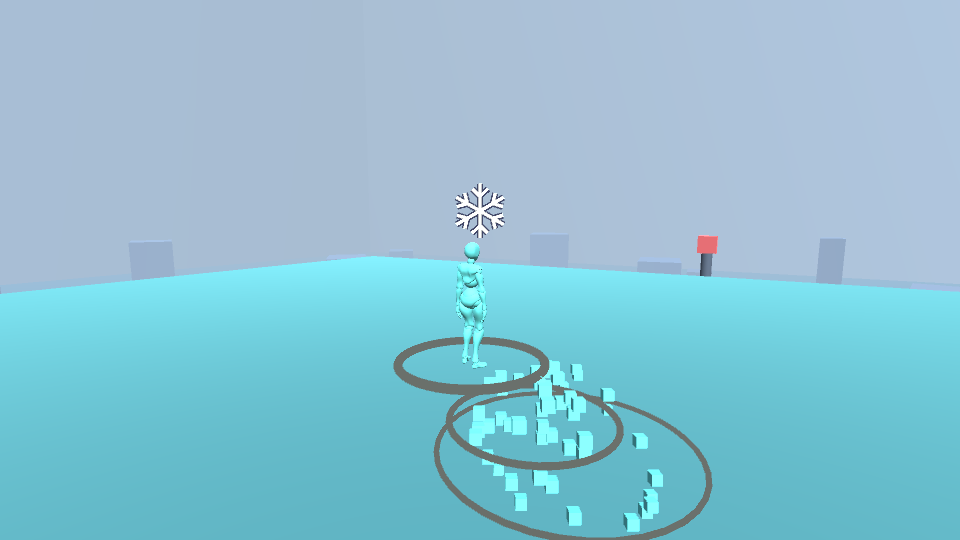
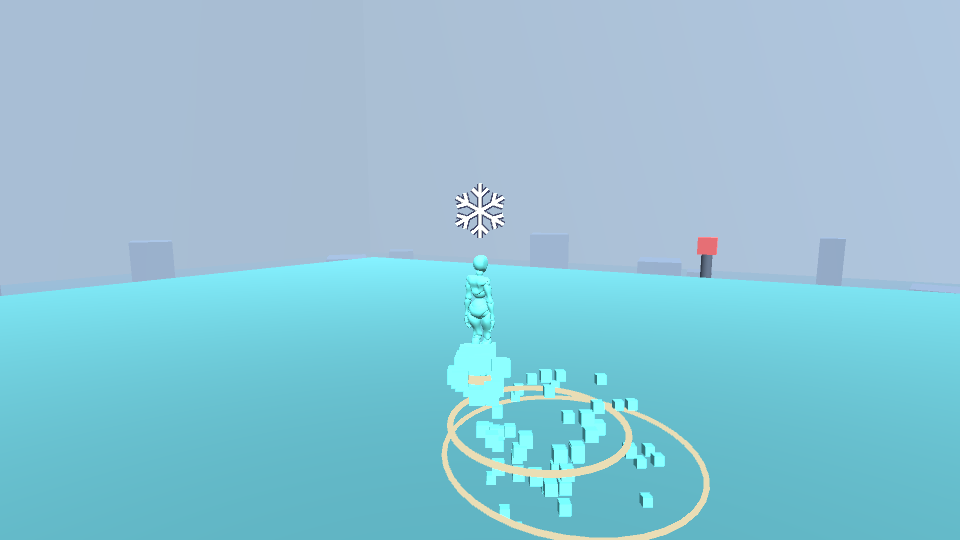
Render synergy shockwave rings unlit in palette colours
The dark-grey rings in the freeze captures were the shared synergy
LineRenderer drawn with the lit Standard palette swatch, not Cartoon FX
(its ring material is additive; diagnose.txt shows 0 darker pixels).

CityMaterials.GetVfx returns one shared Unlit/Color material per palette
swatch: cached, listed in Owned, recoloured by Apply and destroyed with its
owner. SynergyVfx resolves the catalog's ring colours at pool start (4 today)
and never creates a material per cast. If Unlit/Color is unavailable (e.g.
stripped from a player build) the lit swatch is used instead of throwing.

HeroForge verifies all six rings share one cached material, six extra bursts
add no material (120->120), the shader/colour/ownership, and destruction on
session exit. LightingVerification renders the Thermal Shock ring at night:
444 px at luma 0.627 vs 0.179 for the street; cryo-crush/glacier-fist/
sonic-impact captures now show cream rings.

diff --git a/Assets/Scripts/Lighting/LightingVerificationRunner.cs b/Assets/Scripts/Lighting/LightingVerificationRunner.cs
@@ -53,6 +53,39 @@ public sealed class LightingVerificationRunner : MonoBehaviour
         Check(maxStreet<=Lighting.StreetCapacity&&maxPower<=Lighting.PowerCapacity,label+" respects both fixed point-light caps.");
         if(stress)Check(maxPower==Lighting.PowerCapacity&&Lighting.PowerCapacity==4,label+" keeps exactly four pooled power flashes active at the cap.");
     }
+    Texture2D Grab()
+    {
+        camera.Render();var prior=RenderTexture.active;RenderTexture.active=target;
+        var image=new Texture2D(1280,720,TextureFormat.RGB24,false);image.ReadPixels(new Rect(0,0,1280,720),0,0);image.Apply();RenderTexture.active=prior;return image;
+    }
+    static float Luma(Color32 c)=>(.2126f*c.r+.7152f*c.g+.0722f*c.b)/255f;
+    /// Night CONTROL for the synergy shockwave ring: the live pooled ring (unlit palette swatch) against the same ring
+    /// re-rendered with the lit Standard swatch, both against the ring-free frame, all three in one frame.
+    IEnumerator NightSynergyRing()
+    {
+        var runner=W.Powers.SynergyRunner;var d=runner.Definition;
+        Check(d!=null,"Fire + Ice equips a synergy whose shockwave ring can be rendered at night ("+d?.DisplayName+").");
+        var ring=CityMaterials.GetVfx(d.Secondary);var swatch=CityMaterials.Current.Palette.Colors[(int)d.Secondary];
+        runner.Vfx.Burst(W.City.Spawn+new Vector3(0,.05f,6),d);var particles=runner.Vfx.LastParticles;particles.Clear(true);
+        var line=particles.GetComponent<LineRenderer>();
+        yield return new WaitForSeconds(.2f);particles.Clear(true);
+        Check(line.gameObject.activeInHierarchy&&line.sharedMaterial==ring&&ring.shader.name=="Unlit/Color"&&ring.color==swatch&&Lighting.State.Glow>.9f,
+            $"Night: the live {d.DisplayName} ring uses the unlit {d.Secondary} palette swatch, unchanged by the night cycle.");
+        camera.transform.SetPositionAndRotation(cameraAt,cameraRotation);
+        var withRing=Grab();line.enabled=false;var without=Grab();line.enabled=true;
+        line.sharedMaterial=CityMaterials.Get(d.Secondary);var litControl=Grab();line.sharedMaterial=ring;
+        File.WriteAllBytes(Folder+"night-synergy-ring.png",withRing.EncodeToPNG());
+        var a=withRing.GetPixels32();var b=without.GetPixels32();var c=litControl.GetPixels32();int n=0;double unlit=0,lit=0,back=0;
+        static int Diff(Color32 x,Color32 y)=>Mathf.Abs(x.r-y.r)+Mathf.Abs(x.g-y.g)+Mathf.Abs(x.b-y.b);
+        for(int i=0;i<a.Length;i++)if(Diff(a[i],b[i])>12||Diff(c[i],b[i])>12){n++;unlit+=Luma(a[i]);lit+=Luma(c[i]);back+=Luma(b[i]);}
+        Destroy(withRing);Destroy(without);Destroy(litControl);
+        float u=n>0?(float)(unlit/n):0,l=n>0?(float)(lit/n):0,g=n>0?(float)(back/n):0,sw=.2126f*swatch.r+.7152f*swatch.g+.0722f*swatch.b;
+        Log($"MEASURED night synergy ring ({d.Secondary}, swatch luma {sw:F3}): {n} ring pixels; mean luma unlit ring {u:F3}, lit-swatch CONTROL {l:F3}, ground under ring {g:F3}.");
+        Check(n>100&&u-g>=.15f,$"Night: the unlit ring reads against the night street (luma {u:F3} vs ground {g:F3}, {n} pixels).");
+        // Informational only: the lit swatch's darkening depends on view and ribbon normals (grey rings in the daytime freeze
+        // captures), so readability, not the lit/unlit gap, is the gate.
+        Log($"CONTROL night lit-swatch ring luma {l:F3} vs unlit {u:F3} (difference {u-l:+0.000;-0.000}).");
+    }
     IEnumerator Checks()
     {
         yield return Scene(GameFlow.HomeScene);
@@ -68,6 +101,7 @@ public sealed class LightingVerificationRunner : MonoBehaviour
         yield return Measure("night-combat-max-lights",true);yield return Capture("night-max-power-lights-same-view");
         Check(CityMaterials.Current.All.Count()==mats,"Lighting cycle and pooled flashes reuse the same shared city palette materials.");
         var power=W.Powers.Powers.Find(p=>p.Definition==fire);W.Powers.Tick(100,true);Check(W.Powers.Use(power),"Real equipped Fire cast requests a pooled point light.");yield return null;Check(Lighting.PowerActive>0,"Fire leaves a visible short-lived point light while its projectile travels.");
+        yield return NightSynergyRing();
         camera.targetTexture=null;target.Release();Destroy(target);camera.enabled=true;follow.enabled=true;
         yield return Enter("villain");Check(Lighting.TimeOfDay==.5f&&Lighting.State.Glow>.4f,"Villain starts at the authored dusk preset.");
         yield return Enter("free-play");Check(Lighting.Cycle.Advances&&Lighting.Cycle.Loop&&Lighting.Cycle.DurationSeconds>0,"Free Play cycles through day/dusk/night from data.");float t=Lighting.TimeOfDay;yield return new WaitForSeconds(.15f);Check(Lighting.TimeOfDay>t,"Free Play's live cycle advances in game time.");

diff --git a/Assets/Scripts/CityPalette.cs b/Assets/Scripts/CityPalette.cs
@@ -53,6 +53,7 @@ public sealed class CityMaterials : MonoBehaviour
     public static CityMaterials Current {get;private set;}
     public CityPalette Palette {get;private set;}
     readonly Dictionary<CityColor,Material> materials=new Dictionary<CityColor,Material>();
+    readonly Dictionary<CityColor,Material> vfxMaterials=new Dictionary<CityColor,Material>();
     readonly Dictionary<CityColor,Color> applied=new Dictionary<CityColor,Color>();
     float appliedSmoothness=float.NaN; int appliedToonHash, appliedEmissiveHash;
     /// Night glow 0..1 set by the session's WorldLightingDirector (0 = day: every emissive swatch emits black).
@@ -93,7 +94,7 @@ public sealed class CityMaterials : MonoBehaviour
     readonly Dictionary<(SidekickSuit,CityColor,CityColor),SuitEntry> suits=new Dictionary<(SidekickSuit,CityColor,CityColor),SuitEntry>();
     public int SuitCount=>suits.Count;
     /// Palette materials plus the suit materials generated from palette colours (both owned and destroyed here).
-    public IEnumerable<Material> Owned=>materials.Values.Concat(suits.Values.Select(e=>e.Material));
+    public IEnumerable<Material> Owned=>materials.Values.Concat(vfxMaterials.Values).Concat(suits.Values.Select(e=>e.Material));
     public static int SuitsCreated {get;private set;}
     public static Material Suit(SidekickSuit suit,CityColor primary,CityColor secondary)
     {
@@ -120,10 +121,26 @@ public sealed class CityMaterials : MonoBehaviour
         }
         return mat;
     }
+    /// Shared unlit palette material for thin VFX geometry, where Standard's view-facing ribbon normals make colours muddy.
+    /// At most one per swatch, cached, recoloured by Apply and destroyed with this owner. Call during pool setup, not per cast.
+    public static Material GetVfx(CityColor color)
+    {
+        if(Current==null)throw new System.InvalidOperationException("City palette must be initialized before VFX.");
+        if(!Current.vfxMaterials.TryGetValue(color,out var mat))
+        {
+            var shader=Shader.Find("Unlit/Color");
+            // A player build can strip an unreferenced built-in shader: fall back to the lit shared swatch rather than fail the session.
+            if(shader==null||!shader.isSupported){Debug.LogWarning("Unlit/Color unavailable; VFX swatch "+color+" uses the lit palette material.");return Get(color);}
+            mat=new Material(shader){name="Palette/Vfx/"+color,enableInstancing=true,color=Current.Palette.Colors[(int)color]};
+            Current.vfxMaterials.Add(color,mat);
+        }
+        return mat;
+    }
     public void Apply()
     {
         foreach(var pair in materials)
         {var color=Palette.Colors[(int)pair.Key];Surface(pair.Value,color,null,false);Emission(pair.Value,pair.Key);applied[pair.Key]=color;}
+        foreach(var pair in vfxMaterials)pair.Value.color=Palette.Colors[(int)pair.Key];
         appliedSmoothness=Palette.Smoothness; appliedToonHash=ToonHash; appliedEmissiveHash=EmissiveHash;
         foreach(var pair in suits)
         {
@@ -157,6 +174,7 @@ public sealed class CityMaterials : MonoBehaviour
     {
         if(!appliedSmoothness.Equals(Palette.Smoothness)||appliedToonHash!=ToonHash||appliedEmissiveHash!=EmissiveHash)return true;
         foreach(var pair in materials)if(!applied.TryGetValue(pair.Key,out var color)||!color.Equals(Palette.Colors[(int)pair.Key]))return true;
+        foreach(var pair in vfxMaterials)if(!pair.Value.color.Equals(Palette.Colors[(int)pair.Key]))return true;
         foreach(var pair in suits)
             if(!pair.Value.Primary.Equals(Palette.Colors[(int)pair.Key.Item2])||!pair.Value.Secondary.Equals(Palette.Colors[(int)pair.Key.Item3])||!pair.Value.Trim.Equals(Palette.Colors[(int)pair.Key.Item1.Trim]))return true;
         return false;
@@ -165,6 +183,7 @@ public sealed class CityMaterials : MonoBehaviour
     void OnDestroy()
     {
         foreach(var mat in materials.Values)Destroy(mat);
+        foreach(var mat in vfxMaterials.Values)Destroy(mat);
         foreach(var e in suits.Values){Destroy(e.Material);Destroy(e.Map);}suits.Clear();
         if(Current==this)Current=null;
     }

diff --git a/Assets/Scripts/Forge/HeroForgeVerificationRunner.cs b/Assets/Scripts/Forge/HeroForgeVerificationRunner.cs
@@ -124,12 +124,23 @@ public sealed class HeroForgeVerificationRunner : MonoBehaviour
         var pooled=renderers.Where(renderer=>renderer.name.StartsWith("Pooled synergy")).ToArray();
         Check(pooled.Length==F.EffectPoolSize&&pooled.All(renderer=>renderer.mesh==pooled[0].mesh),"All six VFX slots share the same particle mesh.");
         CaptureCamera(camera,"sonic-impact.png");
+        // Ring material contract: one cached unlit palette swatch per colour, shared by every slot, owned/destroyed by CityMaterials.
+        var ringMaterial=CityMaterials.GetVfx(slam.Definition.Secondary);int materialsBefore=Resources.FindObjectsOfTypeAll<Material>().Length;
+        for(int i=0;i<F.EffectPoolSize;i++)slam.Vfx.Burst(hero.transform.position,slam.Definition);
+        var rings=FindObjectsByType<LineRenderer>(FindObjectsInactive.Include).Where(ring=>ring.name.StartsWith("Pooled synergy")).ToArray();
+        int materialsAfter=Resources.FindObjectsOfTypeAll<Material>().Length;
+        Check(rings.Length==F.EffectPoolSize&&rings.All(ring=>ring.sharedMaterial==ringMaterial)&&materialsAfter==materialsBefore,
+            $"Every pooled synergy ring shares one cached palette ring material; {F.EffectPoolSize} more bursts create no material ({materialsBefore}->{materialsAfter}).");
+        Check(ringMaterial.shader.name=="Unlit/Color"&&ringMaterial.color==CityMaterials.Current.Palette.Colors[(int)slam.Definition.Secondary]
+            &&ringMaterial!=CityMaterials.Get(slam.Definition.Secondary)&&CityMaterials.Current.Owned.Contains(ringMaterial),
+            $"Ring is the unlit {slam.Definition.Secondary} palette swatch (not the lit Standard swatch) and is owned by the session's CityMaterials.");
         hero.DebugSetResources(2,3,0);Check(W.Powers.ConsumeFlight(.5f)&&Mathf.Approximately(hero.FlightFuel,1.5f),"Equipped Flight positive control consumes configured fuel.");
         Check(hero.TryPunch(),"Equipped Strength uses existing paid punch.");Check(!hero.TryHurricaneKick(),"Shared punch/kick cooldown still rejects kick.");yield return new WaitForSeconds(.5f);
         Check(hero.LastForce==W.Powers.Stats(W.Powers.Strength).Force,"Equipped Strength preserves original force.");
         hero.DebugSetResources(2,0,0);Check(!hero.TryHurricaneKick(),"Zero Strength charges still reject Hurricane Kick.");
         Check(hero.TryBackflip(),"Backflip remains available.");float hp=W.Health;W.DamagePlayer(1);Check(W.Health==hp-1,"Backflip CONTROL has no invincibility.");
         GameFlow.Instance.Home();yield return Scene(GameFlow.HomeScene);menu=FindAnyObjectByType<ModeScreens>();
+        Check(ringMaterial==null,"Leaving the session destroys the unlit ring material with its CityMaterials owner.");
         Check(menu.Profile.SetLoadout(F.Hero("nova"),Power("fire"),Power("ice"),CityColor.Red,CityColor.Cyan),"Save final loadout for separate-process test.");
         int level=menu.Profile.Data.Level;GameFlow.Instance.Select(Resources.Load<GameModeDefinition>("Modes/villain"));yield return Scene(GameFlow.CityScene);
         Check(W.Powers.EquippedA==Power("fire")&&W.Progression.Data.Level==level,"Villain mode switch preserves build and progression.");

diff --git a/Assets/Scripts/Forge/SynergyVfx.cs b/Assets/Scripts/Forge/SynergyVfx.cs
@@ -1,16 +1,20 @@
+using System.Collections.Generic;
 using UnityEngine;
 
-// Fixed scene-lifetime pool. Built-in materials are shared by palette role; no per-cast meshes/materials.
+// Fixed scene-lifetime pool. Built-in materials are shared by palette role (particles: lit swatch; ring: CityMaterials' unlit
+// swatch, so the thin ribbon keeps its palette colour); no per-cast meshes/materials.
 public sealed class SynergyVfx : MonoBehaviour
 {
     sealed class Slot {public GameObject Root;public ParticleSystem Particles;public LineRenderer Ring;public float Until,Start,Radius;}
-    Slot[] slots;int cursor;ForgeCatalog tuning;
+    Slot[] slots;int cursor;ForgeCatalog tuning;readonly Dictionary<CityColor,Material> ringMaterials=new Dictionary<CityColor,Material>();
     public int Emissions {get;private set;}
     public int PoolCount=>slots?.Length??0;
     public ParticleSystem LastParticles=>slots==null||cursor==0?null:slots[(cursor-1)%slots.Length].Particles;
     public void Initialize(ForgeCatalog catalog)
     {
         tuning=catalog;slots=new Slot[Mathf.Max(1,catalog.EffectPoolSize)];
+        foreach(var effect in catalog.Synergies)if(effect!=null&&!ringMaterials.ContainsKey(effect.Secondary))
+            ringMaterials.Add(effect.Secondary,CityMaterials.GetVfx(effect.Secondary));
         var template=GameObject.CreatePrimitive(PrimitiveType.Cube);
         Mesh particleMesh=template.GetComponent<MeshFilter>().sharedMesh;
         template.SetActive(false);Destroy(template);
@@ -36,7 +40,9 @@ public sealed class SynergyVfx : MonoBehaviour
         var s=slots[cursor++%slots.Length];s.Root.SetActive(true);s.Root.transform.position=position;s.Root.transform.rotation=Quaternion.identity;s.Root.transform.localScale=Vector3.one;
         s.Particles.Stop(true,ParticleSystemStopBehavior.StopEmittingAndClear);
         s.Particles.GetComponent<ParticleSystemRenderer>().sharedMaterial=CityMaterials.Get(d.Primary);
-        s.Ring.sharedMaterial=CityMaterials.Get(d.Secondary);
+        // Catalog swatches are resolved at pool start; any other swatch is resolved once through the same bounded palette cache.
+        if(!ringMaterials.TryGetValue(d.Secondary,out var ring))ringMaterials.Add(d.Secondary,ring=CityMaterials.GetVfx(d.Secondary));
+        s.Ring.sharedMaterial=ring;
         s.Radius=d.Radius;s.Start=Time.time;s.Until=Time.time+tuning.ShockwaveSeconds;
         s.Particles.Play();s.Particles.Emit(tuning.ParticlesPerBurst);Emissions++;
     }

diff --git a/docs/hero-forge.md b/docs/hero-forge.md
@@ -108,7 +108,10 @@ This is not a ragdoll system. No physics prop is teleported, marked static, or g
 
 Built-in Particle System module is enabled in Packages/manifest.json. No URP pipeline,
 Shader Graph, volume or renderer feature was added. Six scene-lifetime pooled effects reuse
-palette materials; each has a 40-point ring and at most 28 particles. No per-cast meshes or
+palette materials; each has a 40-point ring and at most 28 particles. Particles use the lit
+palette swatch; the thin ring uses `CityMaterials.GetVfx`, one shared unlit palette material per
+colour, resolved at pool start, recoloured by `Apply` and destroyed with its CityMaterials owner
+(the lit Standard swatch rendered these ribbons dark grey). No per-cast meshes or
 materials are created. Fixed-step yield instructions are reused and pair lookup is cached.
 Existing CombatImpact allocations and first-use component attachment are retained; this
 is not a claim of a measured allocation-free game.
